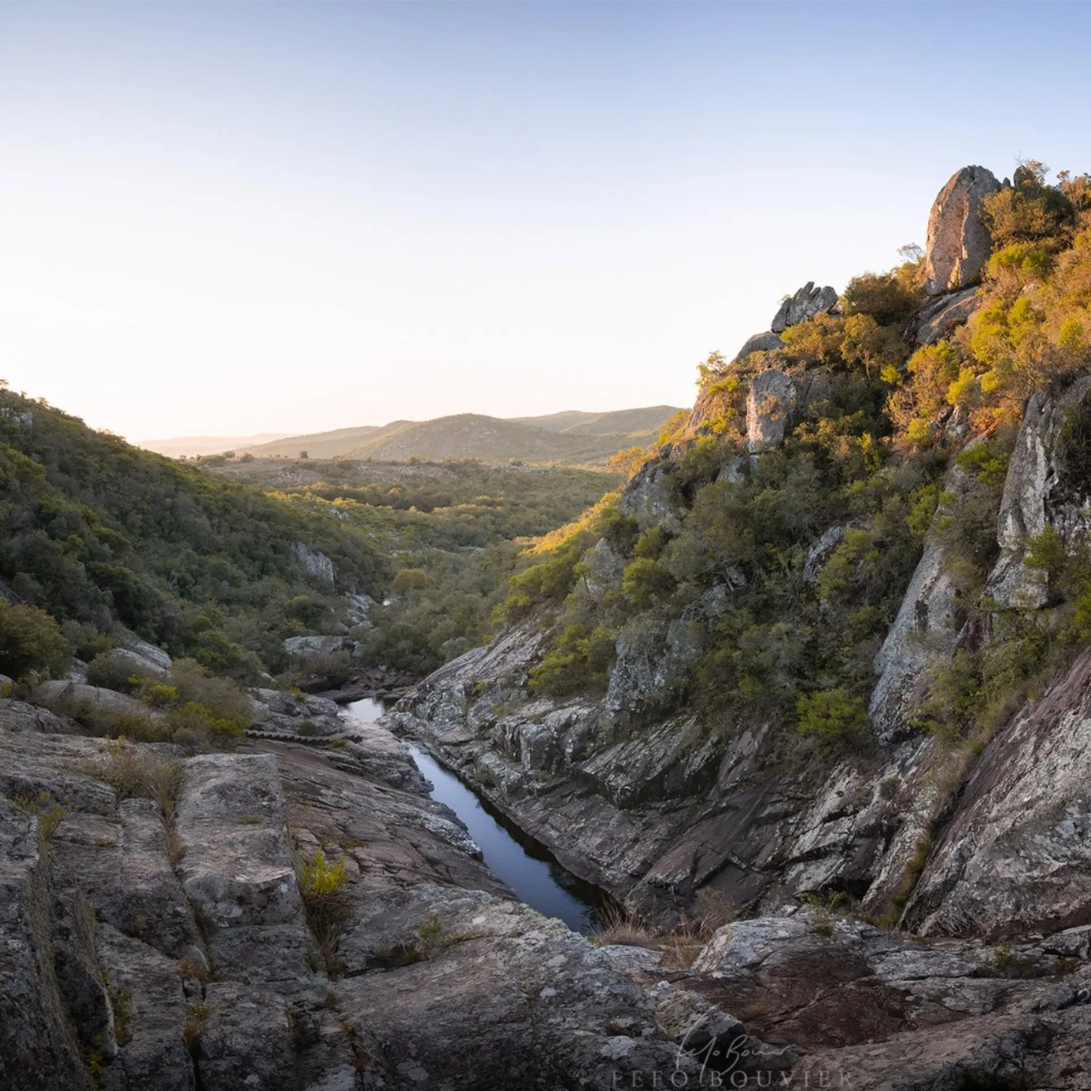
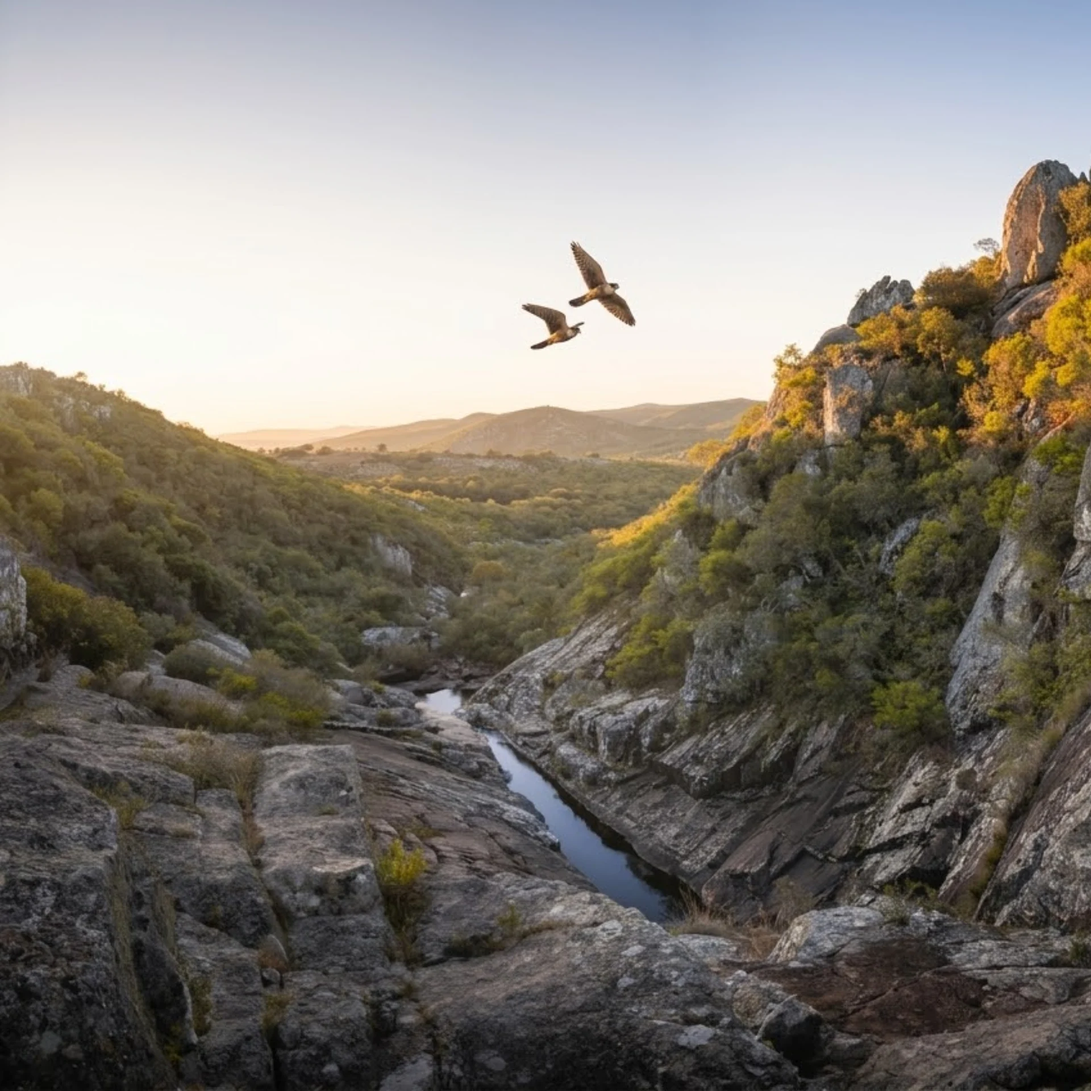
actualizamos la info del sitio

diff --git a/src/i18n/translations.ts b/src/i18n/translations.ts
@@ -282,11 +282,11 @@ const translations: Record<Language, TranslationKeys> = {
     sl_exp1_cta: 'Explorar alojamientos',
     sl_exp2_badge: 'Experiencia 2',
     sl_exp2_title: 'Agua que da Vida',
-    sl_exp2_p1: 'El Río Santa Lucía nace en estas sierras. Aquí comienza el agua que abastece a millones. En la Laguna de los Cuervos, un ensanchamiento natural del río, el paisaje se vuelve espejo. Podés cruzar la laguna en balsa hacia el cerro vecino mientras el entorno vibra en silencio.',
-    sl_exp2_li1: 'Kayak o travesía en balsa',
-    sl_exp2_li2: 'Senderismo suave',
-    sl_exp2_li3: 'Picnic serrano',
-    sl_exp2_li4: 'Atardecer frente a la laguna',
+    sl_exp2_p1: 'En el entorno del Parque Nacional Arequita, la naturaleza y el turismo se encuentran en armonía. A lo largo de la ribera del Río Santa Lucía, cuya naciente se ubica en Cerro Pelado, se despliega un paisaje de enorme valor ambiental, escénico y cultural. Aquí nace el agua que abastece a más de la mitad de la población del Uruguay, convirtiendo a este territorio en un espacio tan vital como memorable. En la Laguna de los Cuervos, un ensanchamiento natural del río, el paisaje se vuelve espejo y el silencio serrano invita a bajar el ritmo. En sus alrededores, diversos emprendimientos privados de alojamiento, gastronomía y actividades recreativas enriquecen la experiencia, impulsando un turismo de naturaleza auténtico, sereno y cercano. Experiencias tentativas',
+    sl_exp2_li1: 'Caminatas y senderismo de baja dificultad',
+    sl_exp2_li2: 'Avistamiento de aves y observación de flora nativa',
+    sl_exp2_li3: 'Picnic y descanso frente río',
+    sl_exp2_li4: 'Fotografía de paisajes y atardeceres serranos',
     sl_exp2_cta: 'Descubrir más',
     sl_exp3_badge: 'Experiencia 3',
     sl_exp3_title: 'Naturaleza con Confort',
